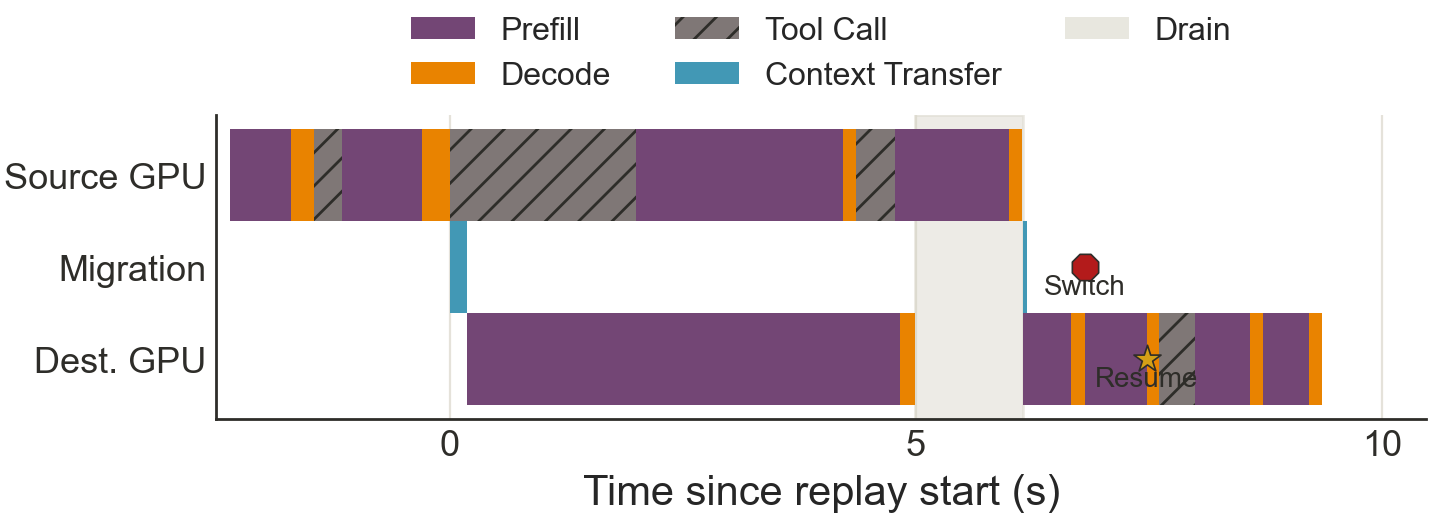
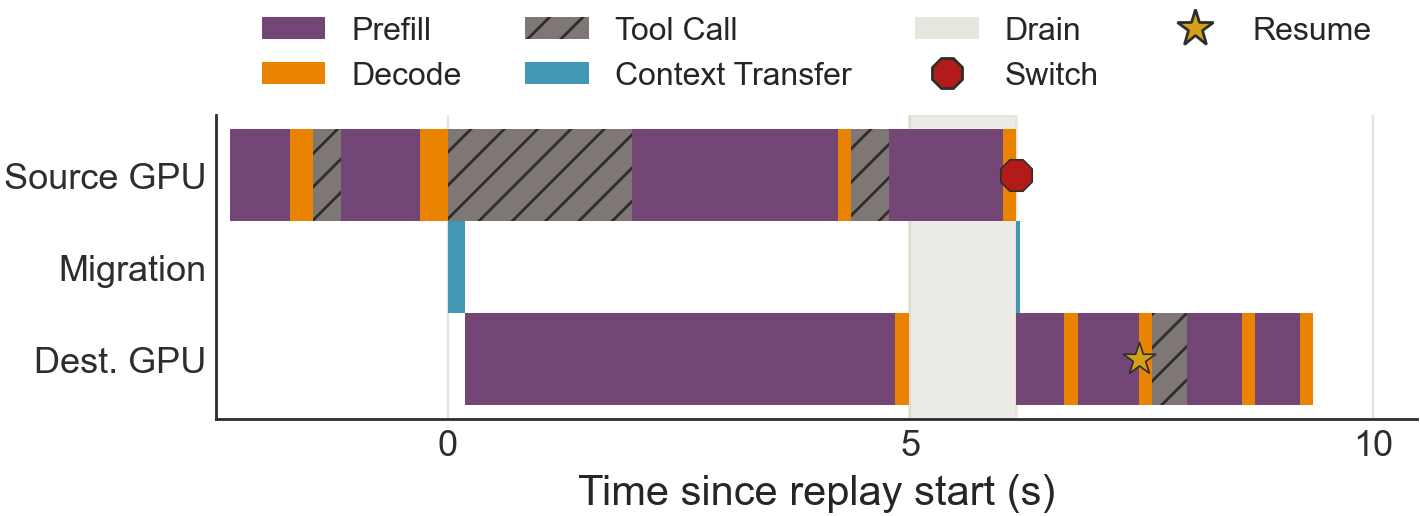
Refine timeline event markers

diff --git a/agent-migrate/queue-haul/plot_testbed_kv_timeline.py b/agent-migrate/queue-haul/plot_testbed_kv_timeline.py
@@ -11,6 +11,7 @@ import matplotlib
 
 matplotlib.use("Agg")
 import matplotlib.pyplot as plt
+from matplotlib.lines import Line2D
 from matplotlib.patches import Patch
 
 DEFAULT_SCENARIOS = {
@@ -302,17 +303,17 @@ def plot(timeline_path: Path, inference_path: Path, out: Path) -> None:
                 zorder=3,
             )
             inference_labels.add(phase)
-        for time, marker, color, label, lane in (
-            (float(row["commit_s"]), "8", "#B31B1B", "Switch", migration_y),
-            (float(row["first_token_s"]), "*", "#D4A017", "Resume", destination_y),
+        source_finish = max(
+            (float(segment["finish_s"]) for segment in session_segments
+             if segment["location"] == "source"), default=0,
+        )
+        for time, marker, color, lane in (
+            (source_finish, "8", "#B31B1B", source_y),
+            (float(row["first_token_s"]), "*", "#D4A017", destination_y),
         ):
             gantt.scatter(
-                time, lane, marker=marker, s=105, color=color,
+                time, lane, marker=marker, s=150, color=color,
                 edgecolor=colors["text"], linewidth=.6, zorder=4,
-            )
-            gantt.annotate(
-                label, (time, lane), xytext=(0, -12), textcoords="offset points",
-                ha="center", va="bottom", fontsize=10, color=colors["text"],
             )
     gantt.set_yticks(
         [positions[0] - .32, positions[0], positions[0] + .32],
@@ -328,9 +329,15 @@ def plot(timeline_path: Path, inference_path: Path, out: Path) -> None:
         ),
         Patch(facecolor=colors[transfer_color], label=transfer_label),
         Patch(facecolor=colors["drain"], alpha=.6, label="Drain"),
+        Line2D([], [], marker="8", markersize=12, linestyle="none",
+               markerfacecolor="#B31B1B", markeredgecolor=colors["text"],
+               label="Switch"),
+        Line2D([], [], marker="*", markersize=14, linestyle="none",
+               markerfacecolor="#D4A017", markeredgecolor=colors["text"],
+               label="Resume"),
     )
     gantt.legend(
-        handles=legend, frameon=False, ncol=3, loc="upper center",
+        handles=legend, frameon=False, ncol=4, loc="upper center",
         bbox_to_anchor=(.5, 1.42),
     )
     gantt.grid(axis="x", color=colors["grid"], linewidth=.8, alpha=.7)

diff --git a/agent-migrate/queue-haul/tests/test_testbed_kv_timeline.py b/agent-migrate/queue-haul/tests/test_testbed_kv_timeline.py
@@ -15,6 +15,7 @@ Plausible wrong implementations:
 - Relabel queued post-switch activity as source inference.
 - Mark a later continuation as the first destination token.
 - Place Switch or Resume markers on the wrong lane or measured event time.
+- Put event-marker labels over the timeline instead of in its legend.
 """
 
 import csv
@@ -136,10 +137,13 @@ def test_timeline_marks_switch_and_resume_events(tmp_path, monkeypatch):
     write(fixture(tmp_path), "measured", out)
 
     ax = timeline_plot.plt.gcf().axes[0]
-    assert [text.get_text() for text in ax.texts] == ["Switch", "Resume"]
+    assert not ax.texts
+    assert {text.get_text() for text in ax.get_legend().get_texts()} \
+        >= {"Switch", "Resume"}
     markers = [marker.get_offsets()[0].tolist() for marker in ax.collections]
-    assert markers[0] == pytest.approx([4.1, 0])
+    assert markers[0] == pytest.approx([2.5, -.32])
     assert markers[1] == pytest.approx([4.15, .32])
+    assert [marker.get_sizes()[0] for marker in ax.collections] == [150, 150]
 
 
 def test_replay_uses_the_same_measured_clock(tmp_path):
